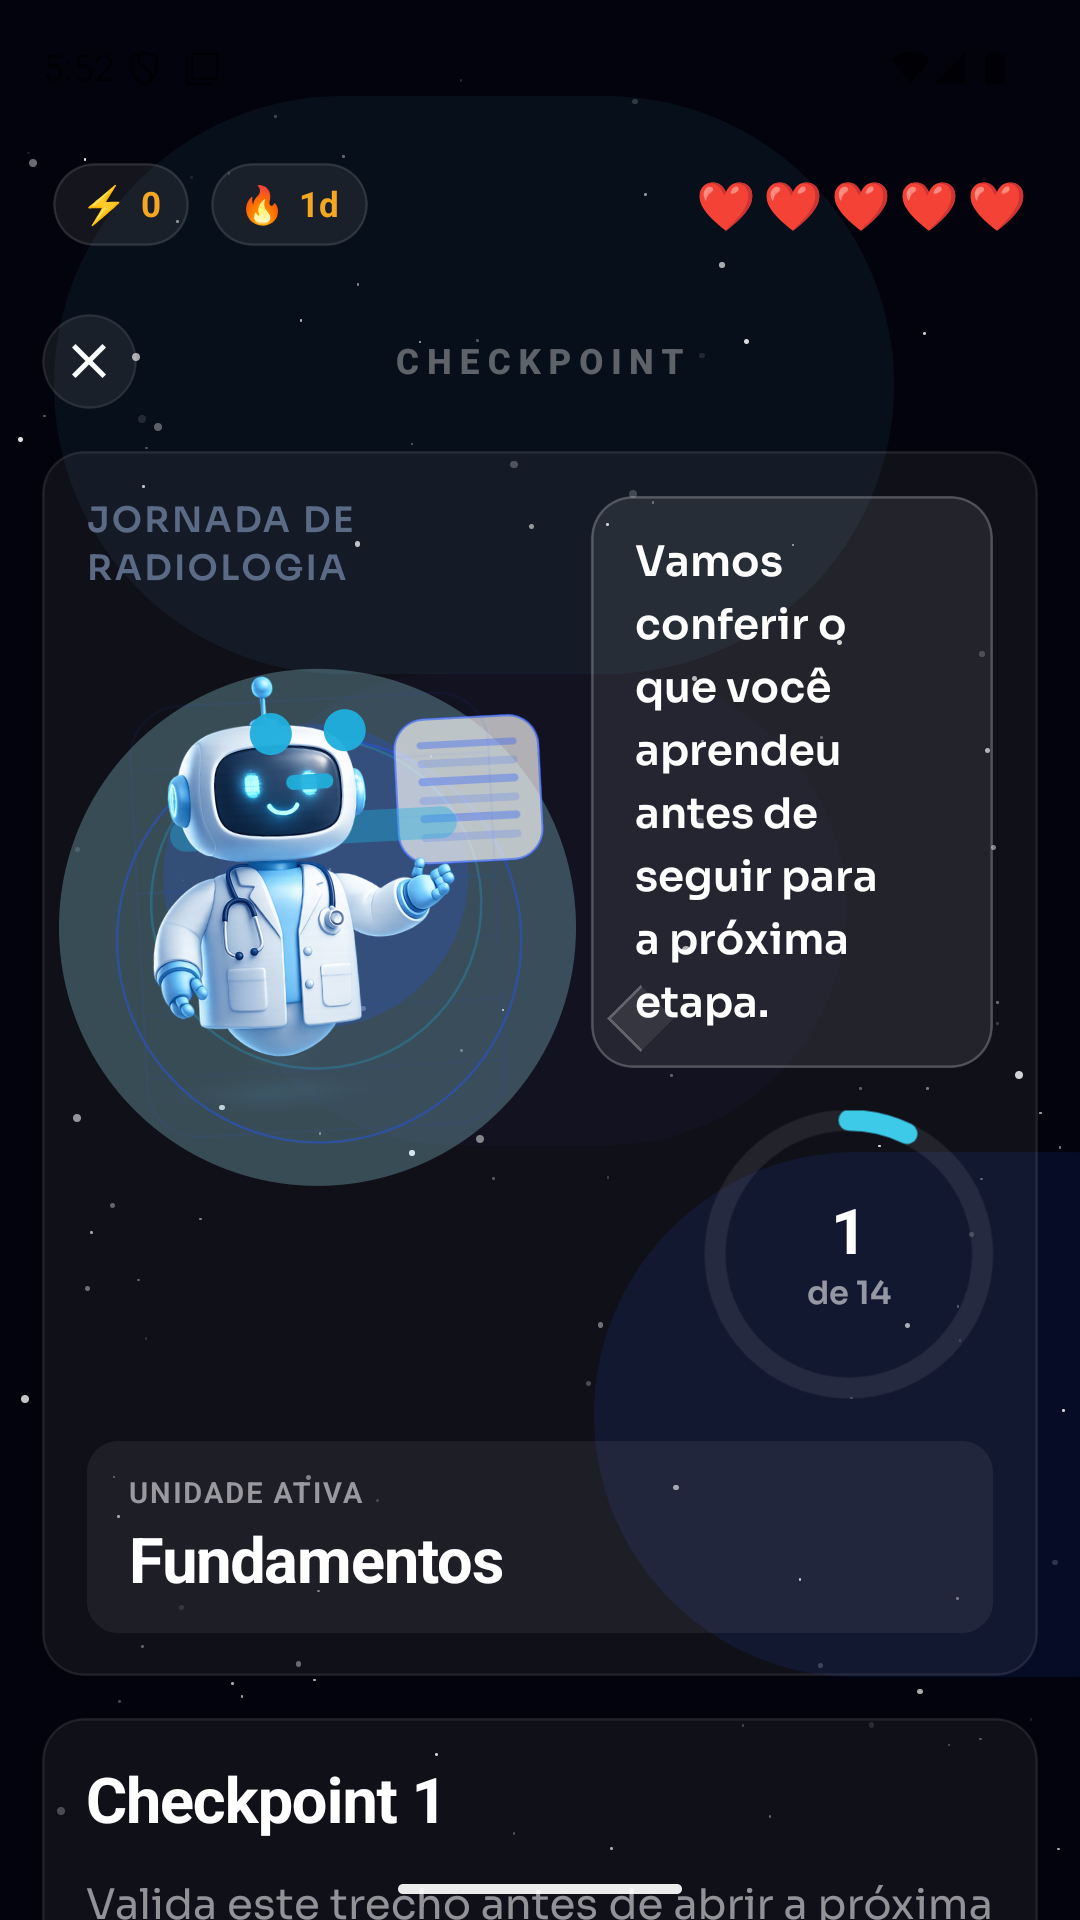
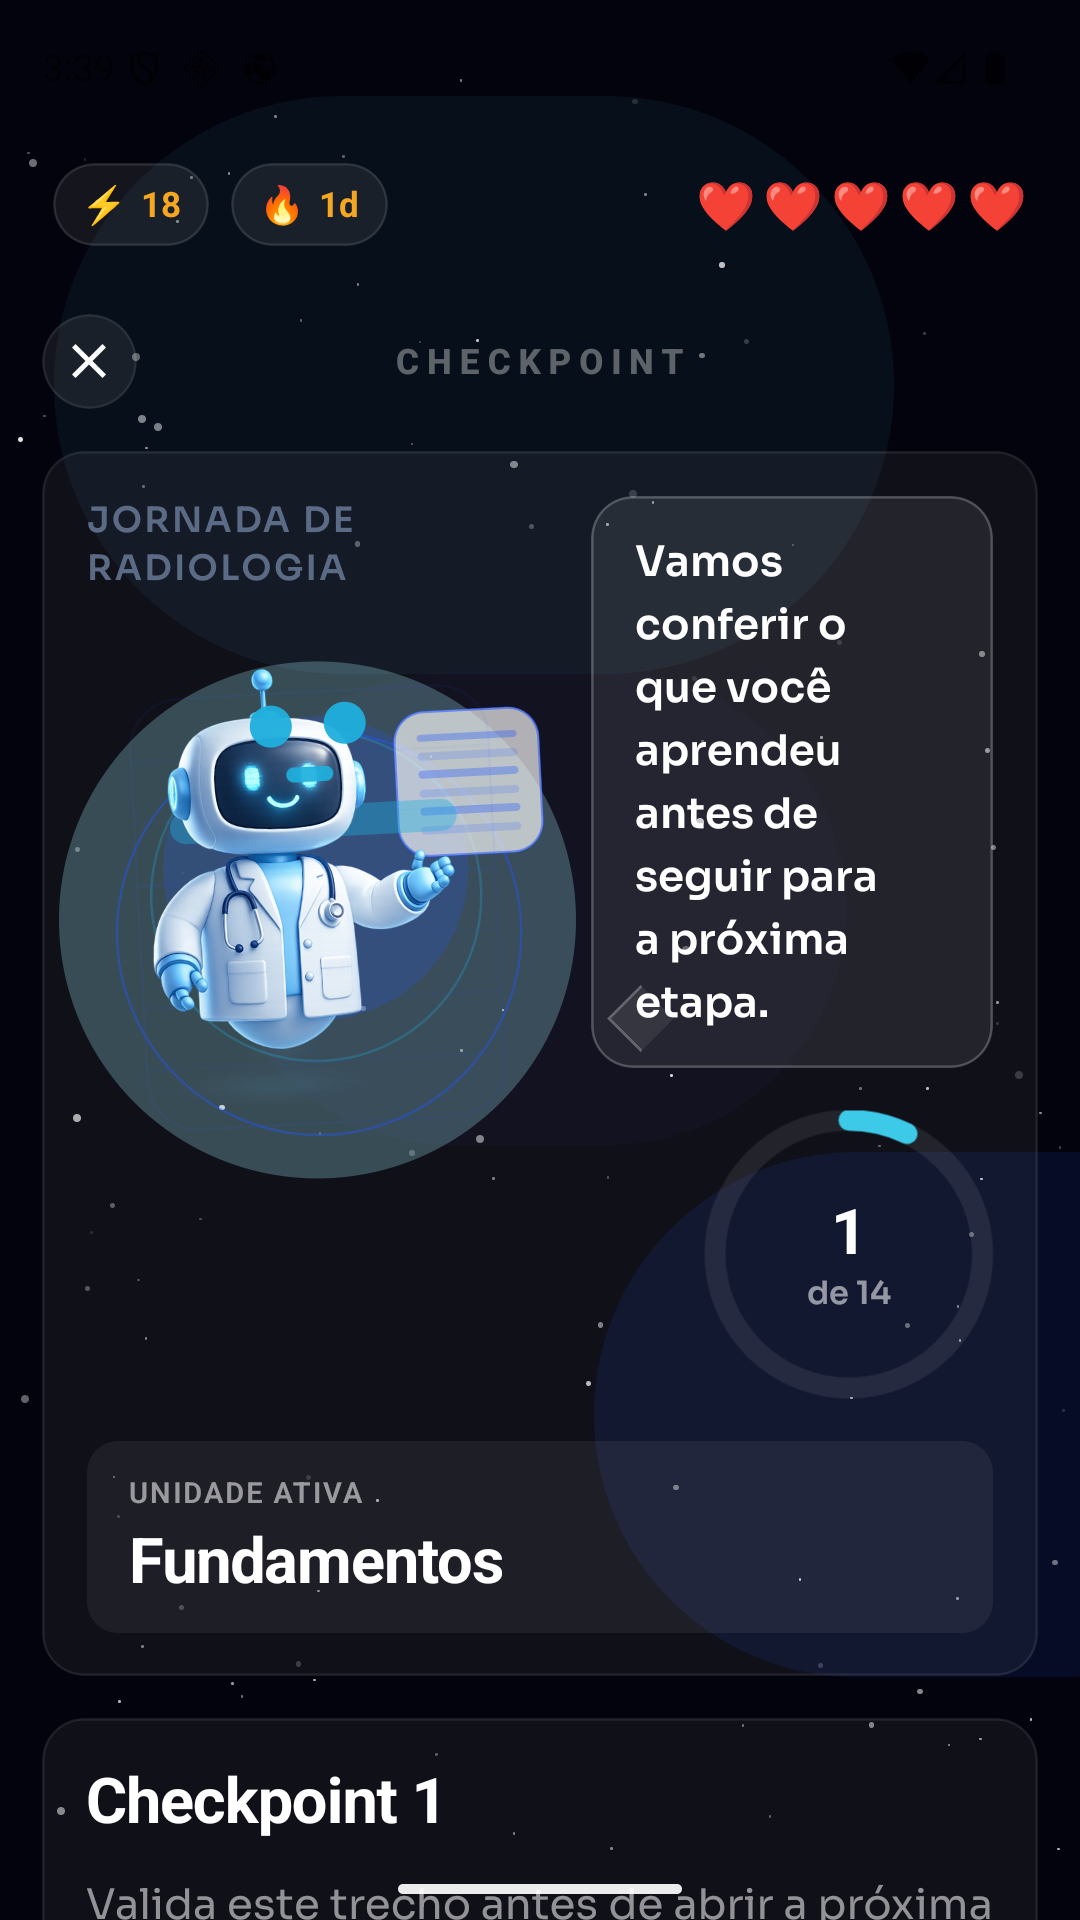
docs: regenera os screenshots publicaveis e recontagem do que envelheceu
Os seis arquivos de docs/store/assets/screenshots eram de 2026-07-29
18:00 e mostravam o estado defeituoso - XP 0 e "Sem tentativas avaliadas
ainda" - enquanto o texto ao lado deles os declarava validos. Doc
desatualizada e prosa; asset desatualizado e entrega errada, porque
esses arquivos sao o que iria para a ficha do Play. Regerados da captura
posterior as duas correcoes, 6 x 1080x1920 (1,778:1).

A ressalva "progresso zerado nos screenshots" do ASSETS_DE_LOJA esta
fechada. Ela dizia que a causa nao fora investigada e que havia decisao
pendente do dono entre aceitar, estender o flow ou investigar. Nao era
vitrine fraca: eram dois defeitos, o laco sem escritor alcancavel e os
cards hardcoded. Nao ha decisao pendente ali.

Recontagens: a branch esta em 109 commits, nao 105, e 2026-07-30 teve
nove commits, nao cinco. O numero anterior ja nascia velho porque o
proprio commit que o escrevia o incrementava - por isso o texto agora
diz quando foi contado.

Pendencia nova registrada: os screenshots de iPhone foram capturados nos
dois buckets mas NAO estao normalizados. O normalize-screenshots.py so
conhece o teto 2:1 e a faixa de lado do Play; a App Store tem buckets
proprios. E pre-requisito da submissao a App Store, nao a do Play.

diff --git a/docs/store/ASSETS_DE_LOJA.md b/docs/store/ASSETS_DE_LOJA.md
@@ -10,7 +10,8 @@ contrato `radiant-app/scripts/icon-assets-contract.test.mjs` e o contrato roda n
 | --- | --- | --- | --- |
 | Ícone da ficha | [`assets/play-icon-512.png`](assets/play-icon-512.png) | 512×512, PNG 32-bit **com** alpha, ≤ 1024 KB | ✅ 126 KB |
 | Feature graphic | [`assets/feature-graphic.png`](assets/feature-graphic.png) | 1024×500, **sem** alpha | ✅ |
-| Screenshots de telefone | [`assets/screenshots/`](assets/screenshots/) | ≥ 2, proporção ≤ 2:1, lado 320–3840 | ✅ 6 × 1080×1920 (1,778:1) |
+| Screenshots de telefone (Play) | [`assets/screenshots/`](assets/screenshots/) | ≥ 2, proporção ≤ 2:1, lado 320–3840 | ✅ 6 × 1080×1920 (1,778:1), **regerados em 2026-07-30** |
+| Screenshots de iPhone (App Store) | — | buckets 6,7" e 6,5" | ⚠ **capturados, não normalizados** — ver a seção do lado iOS |
 
 ## Como regerar
 
@@ -76,15 +77,43 @@ E devolva a resolução ao terminar: `adb shell wm size reset`.
   screenshot de loja tem de mostrar o que o usuário recebe. Também é preciso
   `SENTRY_DISABLE_AUTO_UPLOAD=true`, sem o qual o build falha no upload.
 
-## Ressalva aberta — progresso zerado nos screenshots
+## Ressalva do progresso zerado — FECHADA em 2026-07-30
 
-O plano pedia capturar a home **depois** de percorrer a trilha, para que XP e
-sequência aparecessem preenchidos. O flow faz isso, mas o resultado ainda mostra
-`XP total: 0`, `REVISÕES 0` e "Sem tentativas avaliadas ainda": completar uma
-lição, um checkpoint e uma segunda lição não acumulou XP visível.
+A redação anterior desta seção dizia que os screenshots mostravam `XP total: 0`,
+`REVISÕES 0` e "Sem tentativas avaliadas ainda", que eram "honestos e válidos"
+mas uma vitrine fraca, e que a causa **não fora investigada** — com decisão
+pendente do dono entre aceitar, estender o flow ou investigar.
 
-Os screenshots são **honestos e válidos** — é o que um usuário vê nos primeiros
-minutos — e passam no contrato. Mas são uma vitrine fraca, e a causa do XP zerado
-não foi investigada. **Decisão pendente do dono:** aceitar como está, estender o
-flow até acumular progresso de verdade, ou tratar o XP zerado como defeito a
-investigar antes de recapturar.
+Investigada, e não era vitrine fraca: **eram dois defeitos**.
+
+1. **O laço de gamificação não tinha escritor alcançável em produção.** Os três
+   escritores viviam no hook `useQuiz`, servido por uma rota para a qual nada no
+   app navega. XP, sequência, revisões e meta diária ficavam permanentemente em
+   zero. Corrigido em `ab40bb1..056ffe1` com o `LessonOutcomeService`.
+2. **Os cards `PRECISÃO` e `TÓPICOS` eram hardcoded**, sem dado por trás:
+   `LearningStatsService` tinha zero consumidores e nada gravava
+   `LearningAttempt`. Corrigido em `233f4b0`.
+
+Os seis arquivos desta pasta foram **regerados em 2026-07-30** a partir da
+captura posterior às duas correções, e agora mostram `⚡ 36`, `🔥 1d`,
+`PRECISÃO 100%` e `TÓPICOS Fundamentos — 100% · 2 lições`. Os anteriores, de
+2026-07-29 18:00, mostravam o estado defeituoso.
+
+**Não há decisão pendente do dono nesta seção.** Evidência em
+[`2026-07-30-e1-store-capture.md`](../../radiant-app/docs/evidence/2026-07-30-e1-store-capture.md).
+
+**O que continua verdadeiro da redação antiga:** a regra de que um screenshot de
+loja tem de mostrar o que o usuário realmente recebe. Foi exatamente ela que
+transformou "vitrine fraca" em "defeito a corrigir" em vez de "recortar melhor".
+
+## Lado iOS — capturado, ainda não normalizado para a App Store
+
+Esta pasta e o `normalize-screenshots.py` atendem **apenas o Play**: o teto 2:1 e
+a faixa de lado 320–3840 são regras do Google. O iOS foi capturado em 2026-07-30
+nos dois buckets — iPhone 16 Plus (6,7", **1290×2796**) e iPhone 11 Pro Max
+(6,5", **1242×2688**), ambos `EXIT=0` — mas os arquivos vivem como **evidência**
+em `radiant-app/docs/evidence/2026-07-30-e1-store/`, não como assets publicáveis.
+
+A App Store tem buckets e proporções próprios, e o script atual não os conhece.
+Normalizar o lado iOS é trabalho separado, ainda **não feito**, e é pré-requisito
+da submissão à App Store — não da submissão ao Play.

diff --git a/docs/EXECUTION_STATUS_2026-07-29.md b/docs/EXECUTION_STATUS_2026-07-29.md
@@ -309,7 +309,7 @@ depois. **Mergear a PR antes de submeter**, e remedir as duas URLs na véspera.
 
 | Verificação | Estado | Resultado |
 | --- | --- | --- |
-| `npm run quality` | PASS | rodado em cada um dos cinco commits do dia |
+| `npm run quality` | PASS | rodado em cada um dos **nove** commits do dia, e ao final **sobre o estado commitado** — 0 arquivos rastreados modificados, 32 suites, 110 testes |
 | gate transacional do Loop | PASS | nove validadores verdes em cada um dos seis runs; cada run fechou com memória validada |
 | suíte de `lesson-flow` | PASS | 16/16 — 11 do `LessonOutcomeService`, 5 do `LessonFlowScreen` |
 | cobertura da corrida de estado | PASS | verificada por reversão: trocando o valor local pelo estado, o teste novo falha com `{}` contra `{ 'step-final-choice': true }` |
@@ -320,6 +320,8 @@ depois. **Mergear a PR antes de submeter**, e remedir as duas URLs na véspera.
 | E1 — lado iOS (6,7" e 6,5") | **PASS** | `EXIT=0` no iPhone 16 Plus (**1290×2796**) e no iPhone 11 Pro Max (**1242×2688**), sobre build Release com env **production**. Ver [a evidência](../radiant-app/docs/evidence/2026-07-30-e1-store-capture.md) |
 | `store-capture.yaml` — oclusão do CTA | **corrigido** | guarda `notVisible` trocada por scroll fixo: no iPhone a alternativa ficava em `y850–932` de 932pt, visível para o predicado e por baixo do CTA flutuante, e o tap caía no botão desabilitado |
 | Android após a correção do flow | **PASS** | reexecutado **depois** da mudança no flow compartilhado, `EXIT=0`, seis screenshots — sem regressão |
+| screenshots publicáveis do Play | **regerados** | os seis em `docs/store/assets/screenshots/` eram de 2026-07-29 18:00 e mostravam o estado defeituoso; regerados da captura pós-correção, 6 × 1080×1920 (1,778:1). A ressalva de vitrine em `ASSETS_DE_LOJA.md` está fechada |
+| screenshots de iPhone para a App Store | **PENDENTE** | capturados nos dois buckets, mas o `normalize-screenshots.py` só conhece as regras do Play. Normalizar o lado iOS é pré-requisito da submissão à App Store, não à do Play |
 
 ## Bloqueios do lançamento
 
@@ -432,7 +434,8 @@ Em 2026-07-29, sete commits (`297b2d4`, `ddb4d85`, `63b0dab`, `27302d9`,
 `e02e158`, `d9529fe` e o de assets), com os quatro arquivos de 26–27/07
 **adotados** no primeiro deles — ver §6.
 
-Em **2026-07-30**, mais cinco, todos do laço de gamificação (§4, ressalva 1):
+Em **2026-07-30**, mais **nove** — cinco do laço de gamificação e quatro da
+sessão da tarde, que obteve a evidência em device e fechou E1 (§4, ressalva 1):
 
 | Commit | O quê |
 | --- | --- |
@@ -441,8 +444,14 @@ Em **2026-07-30**, mais cinco, todos do laço de gamificação (§4, ressalva 1)
 | `91dfb5d` | `LessonFlowScreen` chama o serviço **antes** de `markNodeCompleted` |
 | `056ffe1` | cobre a corrida de estado que os testes anteriores não pegavam |
 | `f7f36e8` | spec, plano e este status |
+| `621b3a7` | corrige o que a sessão da manhã tornou falso no status e no roadmap |
+| `233f4b0` | `LearningAttemptsRepository` — liga `PRECISÃO` e `TÓPICOS` a dado real |
+| `f7b602a` | captura de loja: guarda de visibilidade → scroll fixo (oclusão do CTA) |
+| `873c81a` | E1 fechado nas duas plataformas e a correção do bloqueio de JDK inexistente |
 
-**Nada foi empurrado**; a branch está **105 commits** à frente de `origin/main`.
+**Nada foi empurrado**; a branch está **109 commits** à frente de `origin/main`
+(recontado em 2026-07-30 16:17 — o número dito aqui antes, 105, já estava velho
+quando foi escrito, porque o próprio commit que o escrevia o incrementava).
 
 Os commits foram ordenados para que **nenhum estado intermediário deixe o gate
 vermelho**: os órfãos primeiro, porque o `AppButton` corrige o contrato de easing;

diff --git a/docs/superpowers/plans/2026-07-30-laco-xp-revisoes.md b/docs/superpowers/plans/2026-07-30-laco-xp-revisoes.md
@@ -10,6 +10,23 @@
 
 **Spec:** [`docs/superpowers/specs/2026-07-29-laco-xp-revisoes-design.md`](../specs/2026-07-29-laco-xp-revisoes-design.md)
 
+**Status: CONCLUÍDO em 2026-07-30.** As seis tasks entregues em
+`ab40bb1..056ffe1`, evidência em device obtida na mesma data
+([`2026-07-30-laco-xp-device.md`](../../../radiant-app/docs/evidence/2026-07-30-laco-xp-device.md)):
+`XP total: 18` no checkpoint e `TOTAL XP 36` no progresso, o valor previsto pela
+§5 da spec.
+
+**Duas coisas apareceram depois deste plano e não estavam nele:**
+
+1. A **evidência em device** foi registrada como bloqueada por ausência de JDK no
+   host. O bloqueio **não existia** — ver §4 do
+   [status canônico](../../EXECUTION_STATUS_2026-07-29.md).
+2. A captura que provou o conserto expôs, na **mesma tela**, os cards `PRECISÃO`
+   e `TÓPICOS` com a mesma classe de defeito que este plano corrigiu — leitor sem
+   dado por trás. Corrigido em `233f4b0`, fora do escopo desta spec. A lição:
+   quando uma classe de defeito é caracterizada, vale varrer a superfície inteira
+   onde ela apareceu antes de declarar o trabalho fechado.
+
 ## Global Constraints
 
 - Trabalhe sempre dentro de `radiant-app/`. O gate do projeto é `npm run quality`, rodado de `radiant-app/`.
